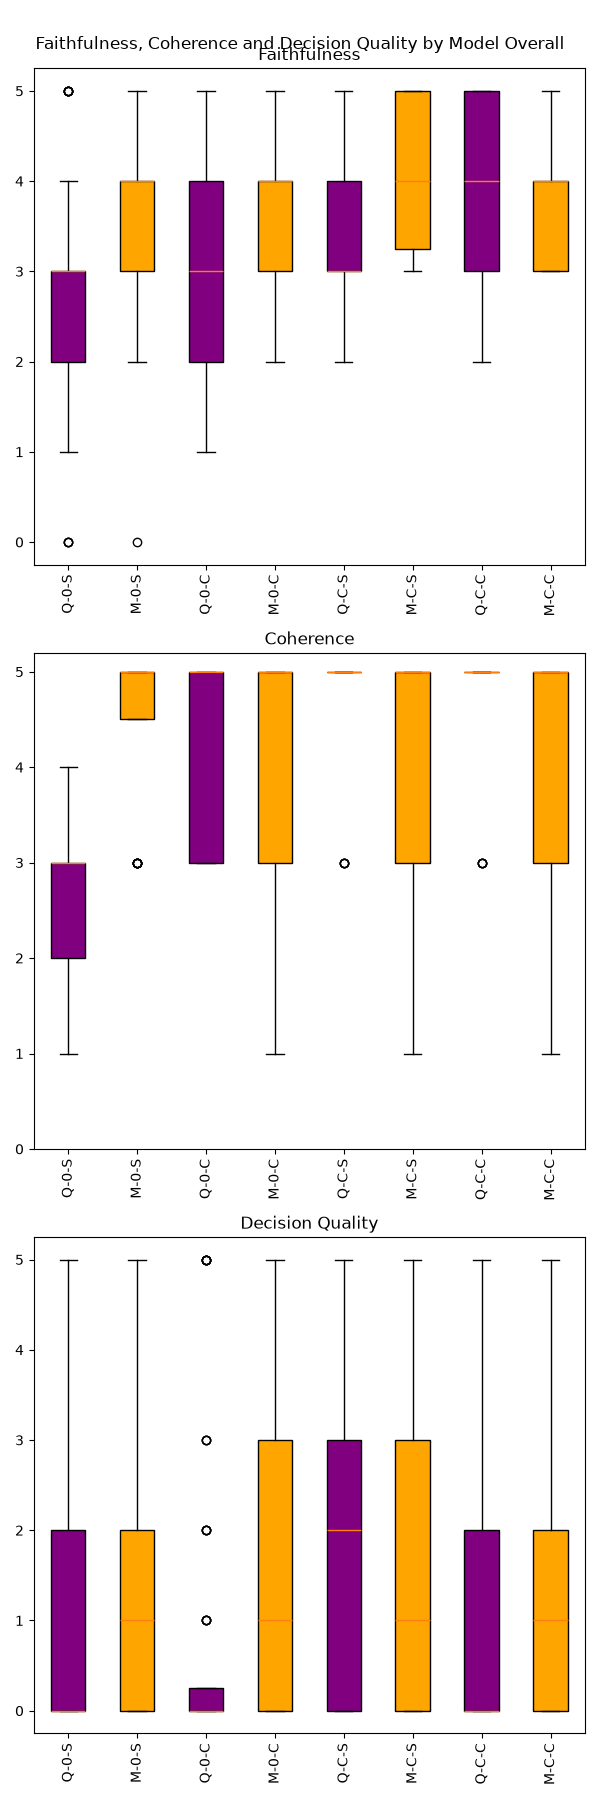
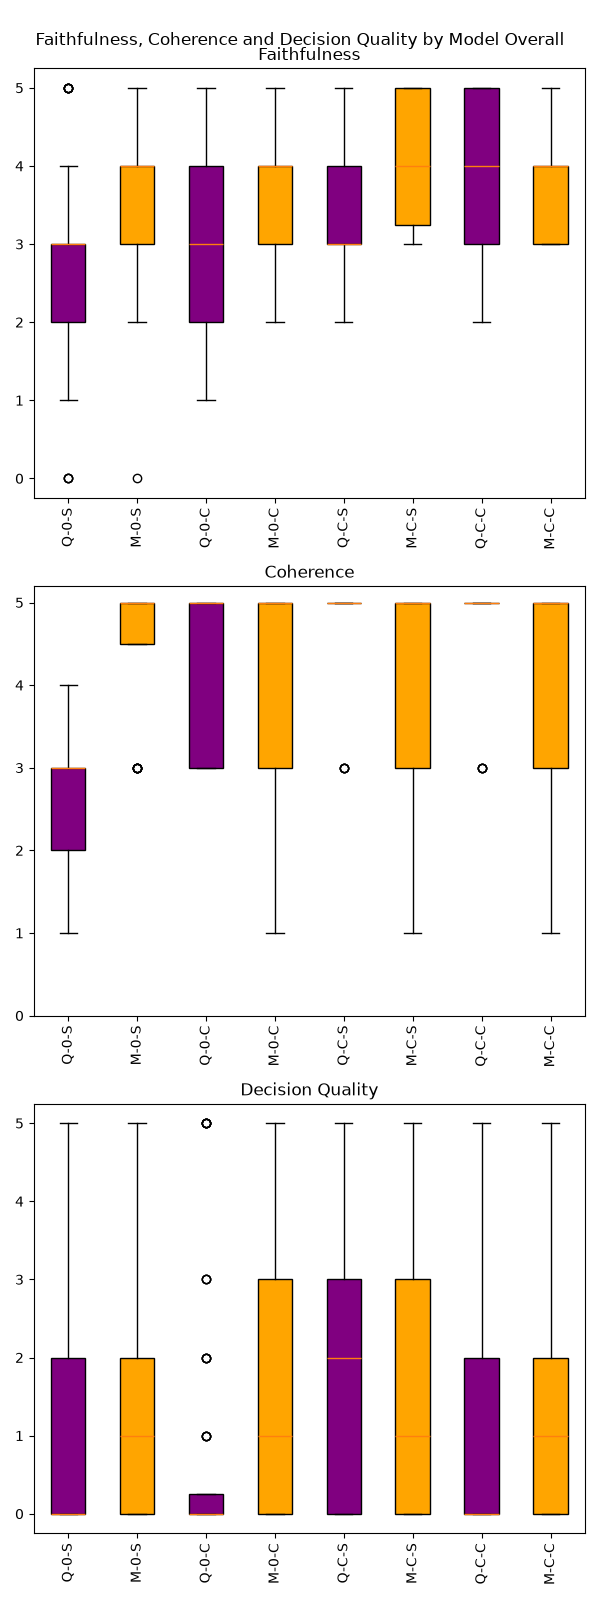
Fix ti compplexity combined

diff --git a/complexity_combined.py b/complexity_combined.py
@@ -17,7 +17,7 @@ non_reasoning = df.loc[df["Model"] == "Mistral"]
 
 
 
-fig, ax = plt.subplots(figsize=(6,18), ncols=1, nrows=3)
+fig, ax = plt.subplots(figsize=(6,16), ncols=1, nrows=3)
 
 df_cleaned_reasoning_faithfulness = reasoning.dropna(subset=['Faithfulness'])
 df_cleaned_non_reasoning_faithfulness = non_reasoning.dropna(subset=['Faithfulness'])
@@ -58,7 +58,6 @@ ax[0].tick_params(axis='x', labelrotation=90)
 ax[1].tick_params(axis='x', labelrotation=90)
 ax[2].tick_params(axis='x', labelrotation=90)
 
-
-plt.suptitle("Faithfulness, Coherence and Decision Quality by Model Overall", x=0.5, ha='center') 
+plt.suptitle("Faithfulness, Coherence and Decision Quality by Model Overall") 
 plt.tight_layout()
 plt.savefig("graph/complexity_combined.png")
